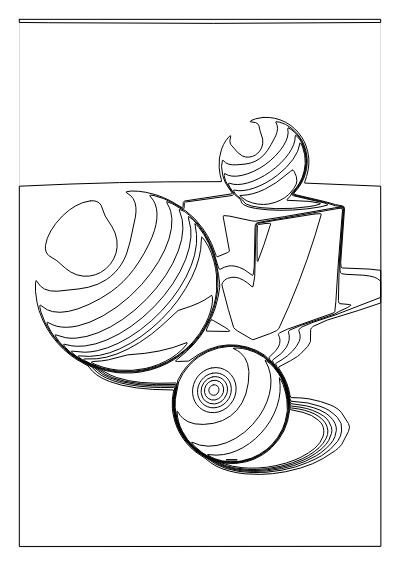
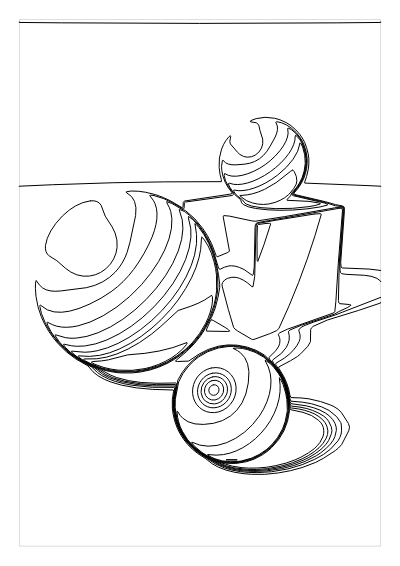
End contour levels at the image edge instead of running along it
The tracer's one-pixel padding closed every level inked at the border by
running it along the edge, so all of them stacked within half a pixel
there and a thin pen drew one line many times over. Each line now keeps
only its stretches inside the map, as open paths ending on the edge.
Stage version 3.

Gallery: overdraw clears on the gradient and scene cells; their pen-down
falls by about two thirds. A flat image now draws no contours, so the
empty-lanes test no longer expects contours' first pen to draw one.

Changed region(s): [[0.06, 0.03, 0.96, 0.0601], [0.81, 0.3304, 0.96, 0.9912], [0.03, 0.3304, 0.06, 0.9611]]

diff --git a/crates/core/src/stages/contours.rs b/crates/core/src/stages/contours.rs
@@ -2,7 +2,10 @@
 //!
 //! The tone map is blurred, padded by one empty pixel on every side so every level closes, and
 //! traced at `levels` evenly spaced values between white and full ink, one level at a time, which
-//! crowds the lines where the tone changes fast. Each line is simplified to within half a pixel,
+//! crowds the lines where the tone changes fast. A line that meets the map's edge is then cut open
+//! there: its runs through the padding are left out, since every level inked at the edge would
+//! otherwise run along it within half a pixel of the others, one pen width stacked many times
+//! over. Each line is simplified to within half a pixel,
 //! mapped to page mm and clamped to the map. Equally spaced levels of a smoothed field follow no
 //! published plotting algorithm, so there is nothing to cite for them; the iso-line tracer,
 //! [`raster::iso_lines`], cites its source in `raster.rs`, and so does the simplification.
@@ -53,9 +56,10 @@ impl Default for ContourSettings {
 ///
 /// Level `j` of `L` lies at ink `j / (L + 1)` for `j` from 1 to `L`, and in lane `i` of `n` at
 /// `(j + i / n) / (L + 1)`. Each level is traced in its
-/// own step of the run, lowest first, and its lines come in the order the tracer finds them. Each
-/// line is one path, closed: its last vertex repeats the first. A line that simplifies to a single
-/// point is dropped.
+/// own step of the run, lowest first, and its lines come in the order the tracer finds them. A line
+/// inside the map is one path, closed: its last vertex repeats the first. A line that meets the
+/// map's edge gives one open path per stretch inside the map, ending on the edge. A line that
+/// simplifies to a single point is dropped.
 pub struct ContourStage;
 
 impl Stage for ContourStage {
@@ -66,7 +70,7 @@ impl Stage for ContourStage {
         "Contours"
     }
     fn version(&self) -> u32 {
-        2
+        3
     }
     fn requires(&self) -> &'static [Kind] {
         &[Kind::Tone]
@@ -106,7 +110,8 @@ impl Stage for ContourStage {
             Box::new(move |i, paths, _| {
                 // Level i + 1, summed as the tracer sums `first + j * step`, then the lane's shift.
                 let level = step + i as f64 * step + shift;
-                for line in raster::iso_lines(&padded, pw, ph, level, step, level) {
+                let lines = raster::iso_lines(&padded, pw, ph, level, step, level);
+                for line in lines.iter().flat_map(|l| open_at_edge(l, w, h)) {
                     // Padded cell x is tone pixel x - 1, whose centre lies at x - 0.5.
                     let mm: Vec<[f64; 2]> = raster::simplify(&line, 0.5)
                         .into_iter()
@@ -120,6 +125,34 @@ impl Stage for ContourStage {
         );
         Ok(Box::new(Budgeted::new(run, VERTEX_BUDGET, TOO_BIG)))
     }
+}
+
+/// Closed `line`, in the cells of a `w` by `h` map padded by one cell, as the stretches that lie
+/// inside the map. A vertex lies in the padding when it is on an edge to a padding cell, that is
+/// outside `[1, w]` by `[1, h]`. Each stretch keeps the padding vertex at either end, so it
+/// reaches the map's edge, and a line with no vertex in the padding comes back whole.
+fn open_at_edge(line: &[[f64; 2]], w: usize, h: usize) -> Vec<Vec<[f64; 2]>> {
+    let (w, h) = (w as f64, h as f64);
+    let padding = |[x, y]: [f64; 2]| x < 1.0 || y < 1.0 || x > w || y > h;
+    // The last vertex repeats the first.
+    let n = line.len() - 1;
+    let Some(start) = (0..n).find(|&i| padding(line[i])) else {
+        return vec![line.to_vec()];
+    };
+    let (mut pieces, mut piece) = (Vec::new(), Vec::new());
+    for k in 1..=n {
+        let (prev, v) = (line[(start + k - 1) % n], line[(start + k) % n]);
+        if !padding(v) {
+            if piece.is_empty() {
+                piece.push(prev);
+            }
+            piece.push(v);
+        } else if !piece.is_empty() {
+            piece.push(v);
+            pieces.push(std::mem::take(&mut piece));
+        }
+    }
+    pieces
 }
 
 /// What the run fails with once it passes [`VERTEX_BUDGET`].
@@ -209,7 +242,7 @@ mod tests {
             (ContourStage.name(), ContourStage.label()),
             ("contours", "Contours")
         );
-        assert_eq!(ContourStage.version(), 2);
+        assert_eq!(ContourStage.version(), 3);
         assert_eq!(
             (ContourStage.requires(), ContourStage.provides()),
             (&[Kind::Tone][..], Kind::Paths)
@@ -296,15 +329,38 @@ mod tests {
     }
 
     #[test]
-    fn every_vertex_stays_on_the_map() {
-        // Flat black rises from the padding at the border, so every line runs along it. Only
-        // levels below 1/2 lie outside the map, and are clamped onto its edge; the others lie
-        // inside, within half a pixel of it.
-        let tone = tone_map(10, 10, |_, _| 1.0);
-        let rect = tone.rect_mm();
-        let (_, paths) = run_tone_stage(&ContourStage, tone, json!({}));
-        assert_eq!(paths.len(), 12);
-        assert_inside(&paths, rect);
+    fn a_line_ends_at_the_edge_instead_of_running_along_it() {
+        // Flat black rises from the padding at the border, so every level would run along it, all
+        // twelve within half a pixel of the edge: nothing is left once those runs are cut.
+        let (_, paths) = run_tone_stage(&ContourStage, tone_map(10, 10, |_, _| 1.0), json!({}));
+        assert!(paths.is_empty(), "{:?}", paths.coords());
+        // Ink falling from the left edge: each level is one open line from the top edge to the
+        // bottom one, and only its two ends lie within half a pixel (1 mm) of the edge.
+        let tone = tone_map(10, 10, |x, _| 1.0 - x as f32 / 10.0);
+        let [x, y, w, h] = tone.rect_mm();
+        let (_, paths) = run_tone_stage(&ContourStage, tone, json!({"smooth_mm": 0.0}));
+        assert!(!paths.is_empty());
+        assert_inside(&paths, [x, y, w, h]);
+        for path in paths.iter() {
+            assert_ne!(path.first(), path.last(), "{path:?}");
+            let near = |&[px, py]: &[f64; 2]| {
+                (px - x).min(x + w - px).min(py - y).min(y + h - py) < 1.0 - 1e-9
+            };
+            assert!(path[1..path.len() - 1].iter().all(|v| !near(v)), "{path:?}");
+        }
+    }
+
+    #[test]
+    fn open_at_edge_keeps_a_line_inside_whole_and_cuts_one_along_the_padding() {
+        let inside = [[1.0, 1.0], [2.0, 1.0], [2.0, 2.0], [1.0, 1.0]];
+        assert_eq!(open_at_edge(&inside, 3, 3), vec![inside.to_vec()]);
+        // A loop through the padding on the left: the stretch inside keeps one padding vertex at
+        // each end.
+        let line = [[0.5, 1.0], [1.5, 1.0], [2.0, 2.0], [1.5, 3.0], [0.5, 3.0], [0.5, 1.0]];
+        assert_eq!(
+            open_at_edge(&line, 3, 3),
+            vec![vec![[0.5, 1.0], [1.5, 1.0], [2.0, 2.0], [1.5, 3.0], [0.5, 3.0]]]
+        );
     }
 
     #[test]

diff --git a/crates/core/tests/empty_lanes.rs b/crates/core/tests/empty_lanes.rs
@@ -41,12 +41,12 @@ fn a_white_image_by_colour_draws_nothing() {
 #[test]
 fn a_light_grey_leaves_the_second_pen_light_to_dark_empty() {
     // Ink 0.4 fills the first band to 0.8, past the mid-grey thresholds of grid and ink, and leaves
-    // the second band empty.
+    // the second band empty. A flat map has no level lines, so contours draws nothing in either.
     for style in list_styles() {
         let counts = layer_paths(&style.name, 0.6, "light_to_dark");
         assert_eq!(counts.len(), 2, "{}: {counts:?}", style.name);
         assert!(
-            counts[0] > 0 && counts[1] == 0,
+            (counts[0] > 0 || style.name == "contours") && counts[1] == 0,
             "{}: {counts:?}",
             style.name
         );

diff --git a/docs/BRIEF.md b/docs/BRIEF.md
@@ -375,7 +375,7 @@ From 2026-10-16, new decisions are files in [docs/decisions/](decisions/README.m
 | Sketch restarts | The darkest pixel is found through 16 by 16 block maxima. A stroke of one vertex is dropped and its pixel cleared. A darkest pixel of 0 ends the run even at `stop` 0 | Scanning the whole map on every restart is too slow, and without the clear the loop would retry the same pixel forever. |
 | Poisson seeding | One batch of ink-weighted darts is drawn at the start, with the Voronoi sampler. Seeding stops after 30 failures in a row or when the batch runs out | Uniform darts miss a small dark spot on white, and each sampler call rebuilds the density table. |
 | Angles | Every angle setting turns counter-clockwise as seen on the page, the dashes' included | One convention across styles; the dashes first turned the other way. |
-| Contour levels | Levels sit at `j/(levels+1)`. Each level is traced on its own, in its own step of the run, with the tracer's first and last level both set to it, and a line that simplifies to a single point is dropped. A run fails, saying to smooth more or use fewer levels, once its paths pass 20 million vertices | Tracing every level in one call needed an upper bound half a step past the top level, or rounding in `first + j*step` dropped the top level. That call also took 17 s and about 4.75 GB at 64 levels on a 4000-pixel map, in one step that Stop could not interrupt. |
+| Contour levels | Amended on 2026-10-17, see [docs/decisions/2026-10-17-contours-open-at-edge.md](decisions/2026-10-17-contours-open-at-edge.md): a level that reaches the image's edge ends there. Levels sit at `j/(levels+1)`. Each level is traced on its own, in its own step of the run, with the tracer's first and last level both set to it, and a line that simplifies to a single point is dropped. A run fails, saying to smooth more or use fewer levels, once its paths pass 20 million vertices | Tracing every level in one call needed an upper bound half a step past the top level, or rounding in `first + j*step` dropped the top level. That call also took 17 s and about 4.75 GB at 64 levels on a 4000-pixel map, in one step that Stop could not interrupt. |
 | Flow lines | A seed is checked against the smaller of its own separation and its source sample's, so lines spread into lighter tone at their own spacing. A line ignores only its own samples within one separation of arc. A line stops when it returns within half a step of its own samples three or more back. The 20000-step cap counts each direction, and the gradient is measured in ink per mm | Without these four rules the lines either clumped or left gaps. |
 | Hilbert curve | Amended on 2026-10-15 under [the Hilbert on rectangles spec](superpowers/specs/2026-10-15-hilbert-on-rectangles-design.md). The curve is J. Červený's generalized Hilbert curve over a grid of `cell_mm` cells that covers the tone map from its top-left corner, written from the description in the curve's README. It replaced one square of side `cell_mm * 2^k`, whose leaves off the map broke the line. A leaf is a block of whole cells, and the adaptive rule is unchanged with the block's longer side in place of the square's side, so `max_cell_mm` now acts in steps of one cell rather than in powers of two: white folds to 7.8 mm at the default 8 with a 0.6 mm cell, where the square gave 4.8 mm. A leaf whose centre lies off the map, in the last column or row or in the strip a pen's shift uncovers, has its centre moved onto the map's edge. With one pen the curve is one path; split between pens, a lane lifts only where its ink is below 0.02 ("Empty lanes"). A black A4 page at the defaults now draws one path of 146,454 vertices, where the square drew 216 paths. When the grid's longer side has an odd number of cells and its shorter side an even number, the curve may take one diagonal step. `max_cell_mm` is raised to `cell_mm` when smaller | The square overhung any page that is not square, which gave about 200 pen lifts on A4 over full ink, many under 5 mm. On a pen-fitted 3D printer each lift is a Z move. The generalized curve fills any rectangle in Hilbert order and gives the classic curve on powers of two. Its README shows that the diagonal step cannot be avoided for those sizes, and it is one cell long. Every cell overlaps the map, so moving a centre onto the edge shifts it by under half a cell. The stage's version went to 3. A new golden file, `hilbert_gradient.json`, pins the curve, since there was no hilbert golden file before. In the regression gallery against `main`, only the six `hilbert` cells changed: the still life, the scene and the gradient went from 46, 188 and 49 paths to one each, pen-up travel fell from 350 to 480 mm to under 3 mm, and pen-down length rose by 3 to 5 percent. Where neighbouring leaves differ in size their centres can be off line by half a cell, so some joins slant slightly, as joins between leaves of different sizes already did. |
 | Stipple golden file | The golden file of the `stipple` style draws its dots as points | It pins the relaxation across native and WebAssembly; with spirals it came to 590 KB, against 25 KB as points. |

diff --git a/docs/decisions/2026-10-17-contours-open-at-edge.md b/docs/decisions/2026-10-17-contours-open-at-edge.md
@@ -1,0 +1,17 @@
+# Contours end at the image edge
+
+**Decided:** 2026-10-17
+
+**Choice:** A contour level that reaches the edge of the tone map is cut open there. The stage still pads the map by one empty pixel so every level closes for the tracer. It then drops each line's runs through the padding and keeps the stretches inside the map as open paths. Each stretch ends on the edge, at the padding vertex next to it. A line that never touches the padding stays one closed path, as before. `contours` moves to stage version 3. This amends the brief's "Contour levels" row.
+
+**Reason:** The padding closed every level that was inked at the border by running it along the edge. All of those levels then ran within half a pixel of one another, so a thin pen drew the same line many times over. The plot lint's `overdraw` finding fired on four of the six `contours` cells of the regression gallery, and a 0.2 mm pen made it worse. The lines along the edge followed the padding, not the image, so dropping them loses nothing the picture holds.
+
+Gallery, `contours` cells, before and after:
+
+| Cell | Pen-down mm | Plot time s | Lint |
+|---|---|---|---|
+| gradient | 8,921 → 3,323 | 181 → 71 | overdraw, dark → dark |
+| scene | 10,135 → 3,209 | 213 → 73 | overdraw, dark → dark |
+| still life | 6,991 → 6,205 | 152 → 137 | dark → dark |
+
+No other style's cells moved. The tone error of the gradient and scene cells becomes empty: what remains of their ink follows tone too little for the tone match to fit a line, which was already true of one scene cell. The still life's error falls from 0.60 to 0.44.

diff --git a/changelog.d/contours-open-at-edge.md b/changelog.d/contours-open-at-edge.md
@@ -1,0 +1,2 @@
+Section: Styles
+- **Contours at the edge:** a level line that reaches the edge of the image now ends there instead of running along it. Before, every level that was inked at the edge ran along the border within half a pixel of the others, so a thin pen drew the same line many times over and the plot lint warned of overdraw.
